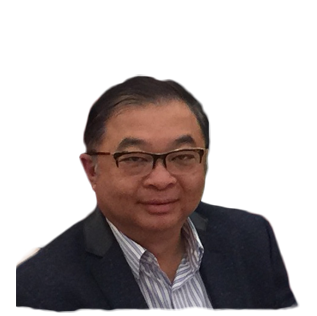
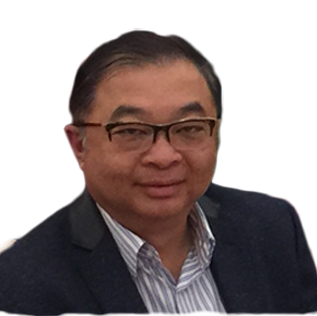
2/3 complete with updating pictures

diff --git a/about.html b/about.html
@@ -440,7 +440,7 @@
                     <div class="col-md-3">
                         <div class="team-member wow fadeInLeft" data-wow-duration="500ms" data-wow-delay=".9s">
                             <div class="team-img">
-                                <img src="images/team/default.png" class="team-pic" alt="">
+                                <img src="images/team/anders.png" class="team-pic" alt="">
                             </div>
                             <h3 class="team_name">Anders Fung</h3>
                             <p class="team_designation">Director</p>
